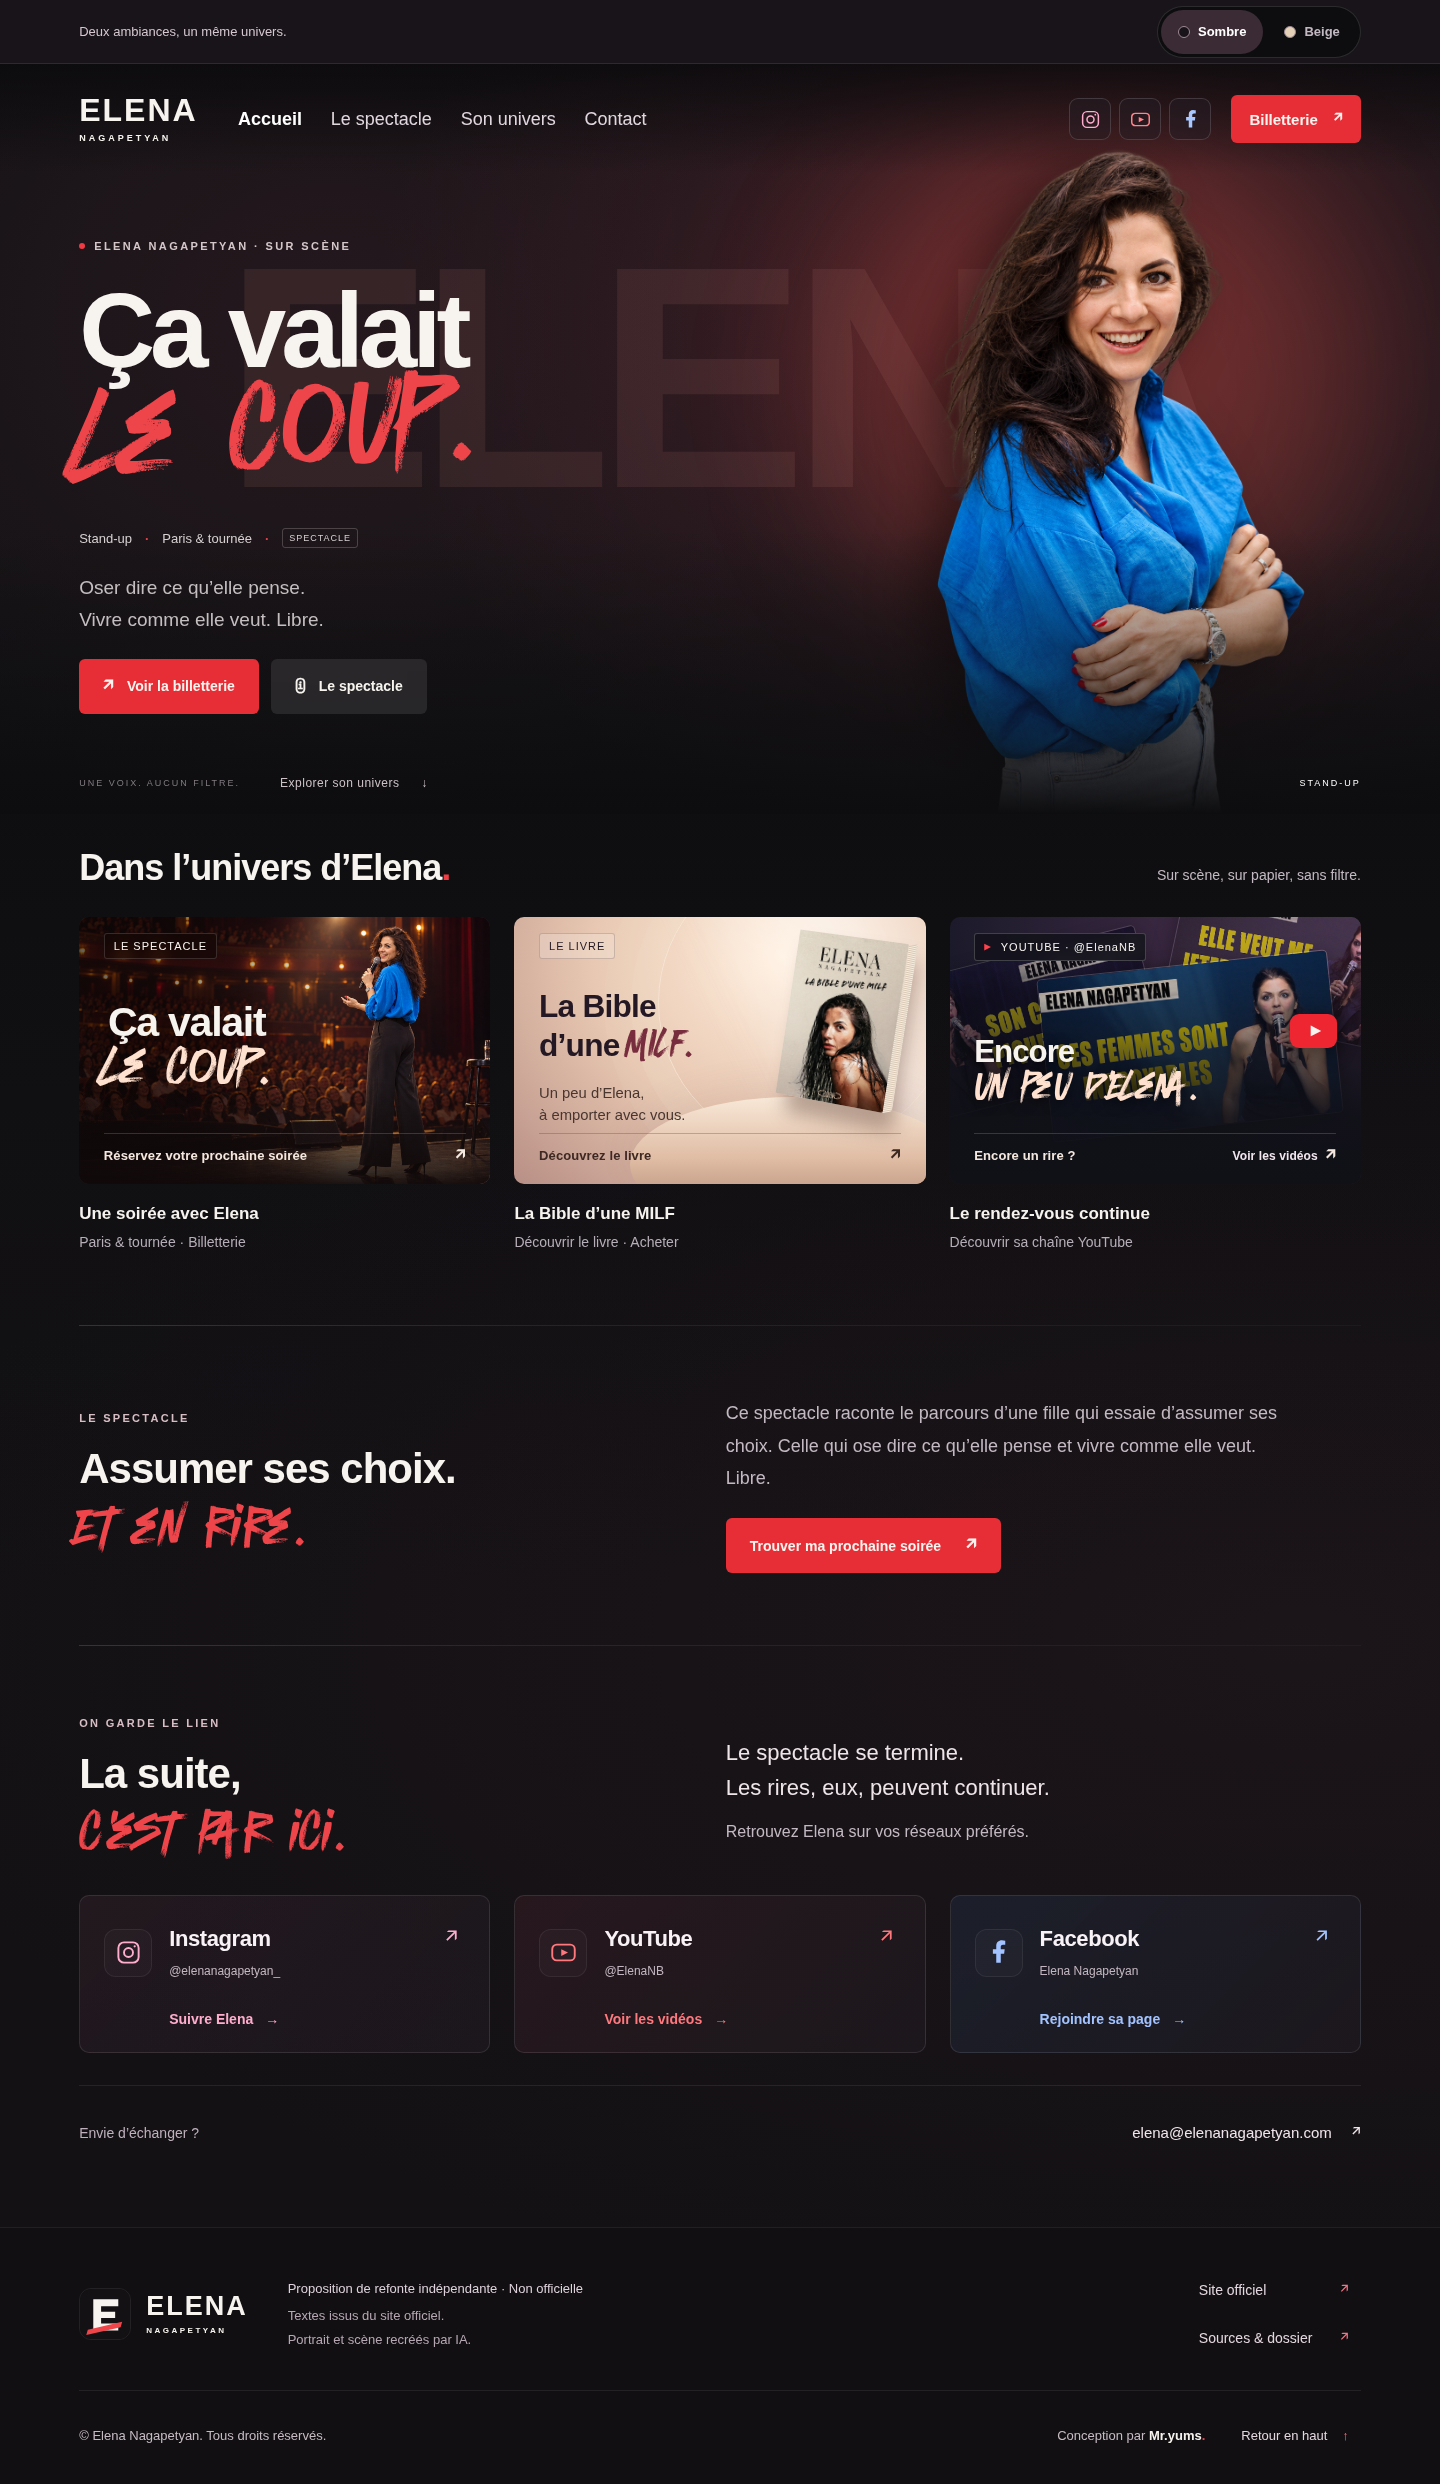
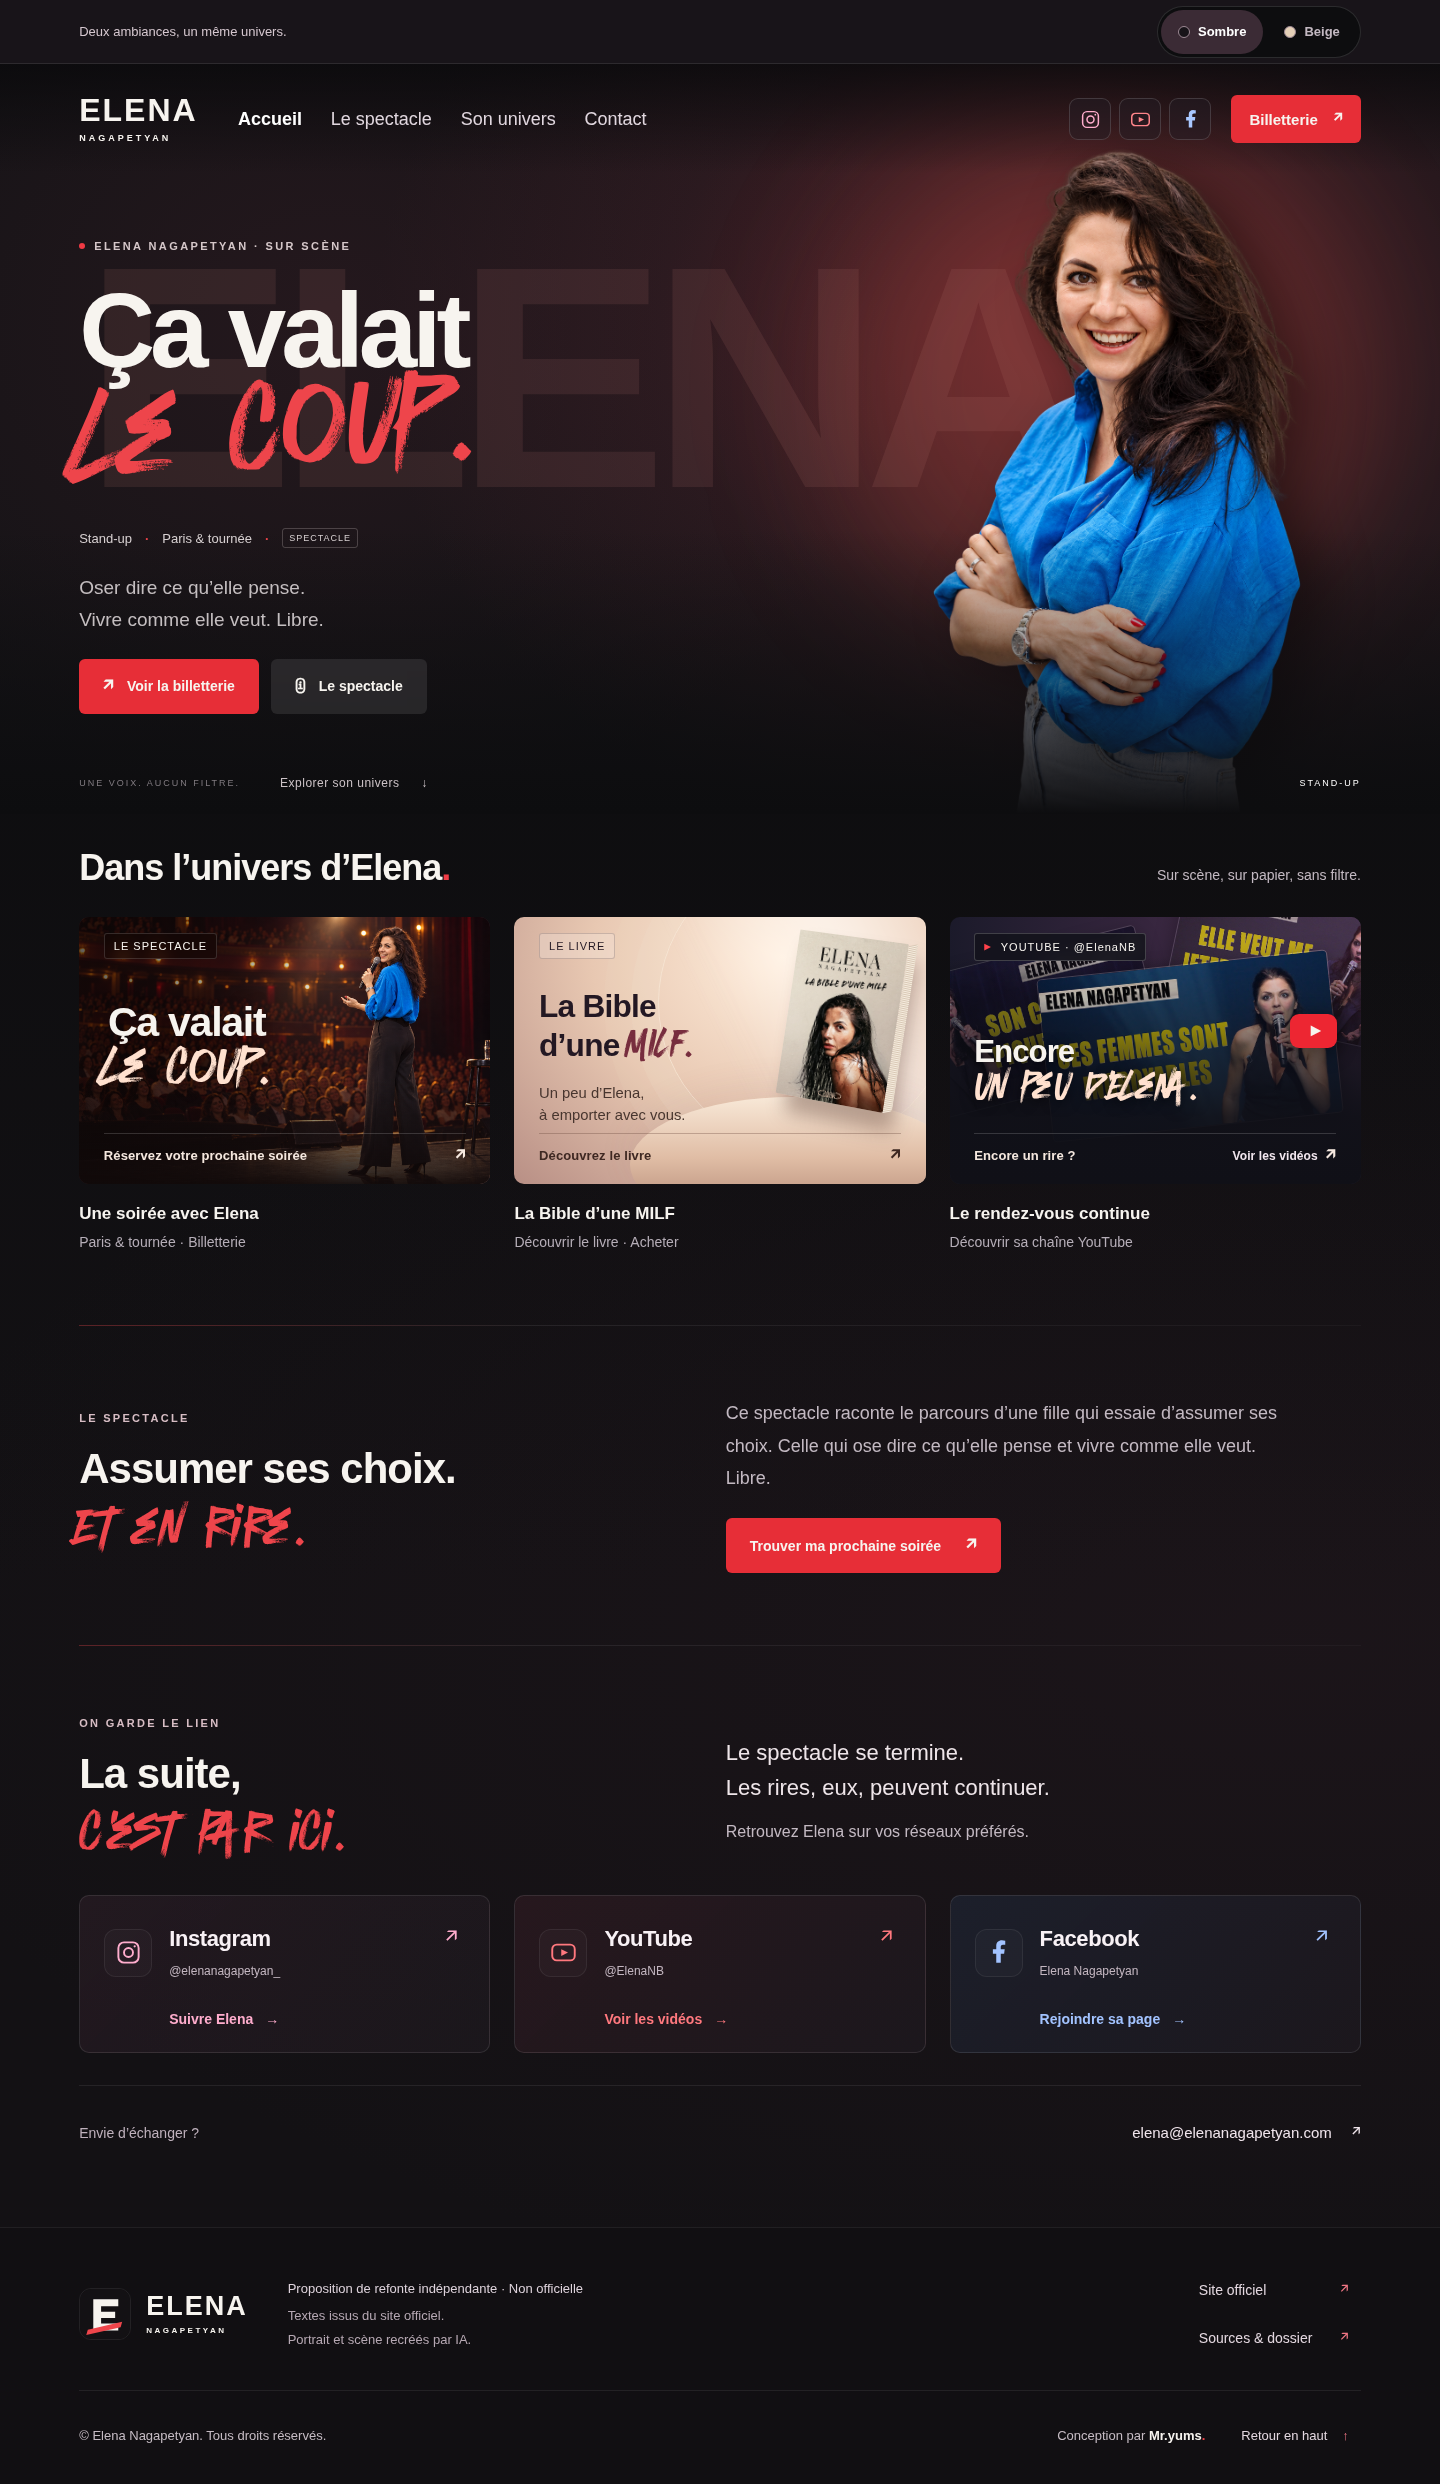
[Sol · GPT-6 · 19/09/2026] Retourner le portrait et décaler le prénom de fond

Changed region(s): [[0.625, 0.062, 0.9062, 0.31]]

diff --git a/site/index.html b/site/index.html
@@ -1,5 +1,5 @@
 <!doctype html>
-<html lang="fr"><head><meta charset="utf-8"><meta name="viewport" content="width=device-width,initial-scale=1"><meta name="robots" content="noindex,nofollow"><meta name="description" content="Une proposition créative autour de l’univers d’Elena Nagapetyan."><title>Elena — Ça valait le coup · Concept</title><link rel="icon" type="image/png" sizes="32x32" href="assets/favicon-32.png"><link rel="icon" type="image/svg+xml" href="assets/favicon.svg"><link rel="apple-touch-icon" sizes="180x180" href="assets/apple-touch-icon.png"><script src="theme.js?v=1"></script><link rel="stylesheet" href="style.css?v=themes-15"></head>
+<html lang="fr"><head><meta charset="utf-8"><meta name="viewport" content="width=device-width,initial-scale=1"><meta name="robots" content="noindex,nofollow"><meta name="description" content="Une proposition créative autour de l’univers d’Elena Nagapetyan."><title>Elena — Ça valait le coup · Concept</title><link rel="icon" type="image/png" sizes="32x32" href="assets/favicon-32.png"><link rel="icon" type="image/svg+xml" href="assets/favicon.svg"><link rel="apple-touch-icon" sizes="180x180" href="assets/apple-touch-icon.png"><script src="theme.js?v=1"></script><link rel="stylesheet" href="style.css?v=portrait-16"></head>
 <body>
 <div class="theme-preview"><span>Deux ambiances, un même univers.</span><div class="theme-picker" role="group" aria-label="Ambiance du site"><button type="button" data-theme-choice="dark" aria-pressed="true"><i class="swatch-dark" aria-hidden="true"></i>Sombre</button><button type="button" data-theme-choice="beige" aria-pressed="false"><i class="swatch-beige" aria-hidden="true"></i>Beige</button></div></div>
 <a class="skip" href="#spectacle">Aller au contenu</a>

diff --git a/site/style.css b/site/style.css
@@ -314,3 +314,9 @@ html[data-theme="beige"]{color-scheme:light;--muted:#69584d;--surface:#f0e4d5}
 @media(max-width:1000px){[data-theme="beige"] .hero-shade{background:linear-gradient(0deg,#f5ecdf 5%,#f5ecdfd9 40%,transparent 85%),linear-gradient(90deg,#f5ecdf55,transparent)}}
 [data-theme="beige"] .video .play{color:#fff}
 @media(max-width:1000px){[data-theme="beige"] .portrait{opacity:1}[data-theme="beige"] .hero-shade{background:linear-gradient(0deg,#f5ecdf 5%,#f5ecdfeb 38%,#f5ecdf55 57%,transparent 74%),linear-gradient(90deg,#f5ecdf99,transparent 70%)}}
+
+/* Le portrait regarde vers le titre ; le prénom respire à sa gauche. */
+.portrait{transform:scaleX(-1)}
+@media(min-width:1101px){.backword{left:calc(50% - 140px)}}
+@media(min-width:621px) and (max-width:1100px){.backword{left:calc(50% - 240px)}}
+@media(max-width:620px){.backword{left:-6%}}

diff --git a/docs/VALIDATION.md b/docs/VALIDATION.md
@@ -44,3 +44,7 @@ Hero plus compact sur ordinateur, proportions titre/portrait rééquilibrées, f
 ## Deux ambiances — 19 septembre 2026
 
 Palette sombre conservée et variante beige (ivoire, sable, caramel, brun). Sélecteur avec état accessible, choix mémorisé localement, URL partageable `?theme=dark` ou `?theme=beige` prioritaire sur la préférence. Chargement initial du thème avant la feuille CSS. Contrôles Chromium des deux palettes à 320, 390, 620, 768, 1000, 1024, 1440, 1920 et 3440 px : aucun débordement ni chevauchement des éléments contrôlés (texte/CTA du livre, actions/repères du hero et bandeau/en-tête). Activation clavier, état aria-pressed, mémorisation et priorité du lien vérifiés ; aucune erreur JavaScript. Captures beige ordinateur/mobile ajoutées au kit.
+
+## Orientation du portrait — 19 septembre 2026
+
+Portrait du hero retourné horizontalement via CSS ; prénom de fond décalé vers la gauche avec ajustement par largeur d’écran. Deux palettes contrôlées à 320, 390, 768, 1024, 1440, 1920 et 3440 px : transformation miroir effective et aucun débordement horizontal. Cadrages beige ordinateur et sombre mobile inspectés ; captures des deux ambiances et kit actualisés.
